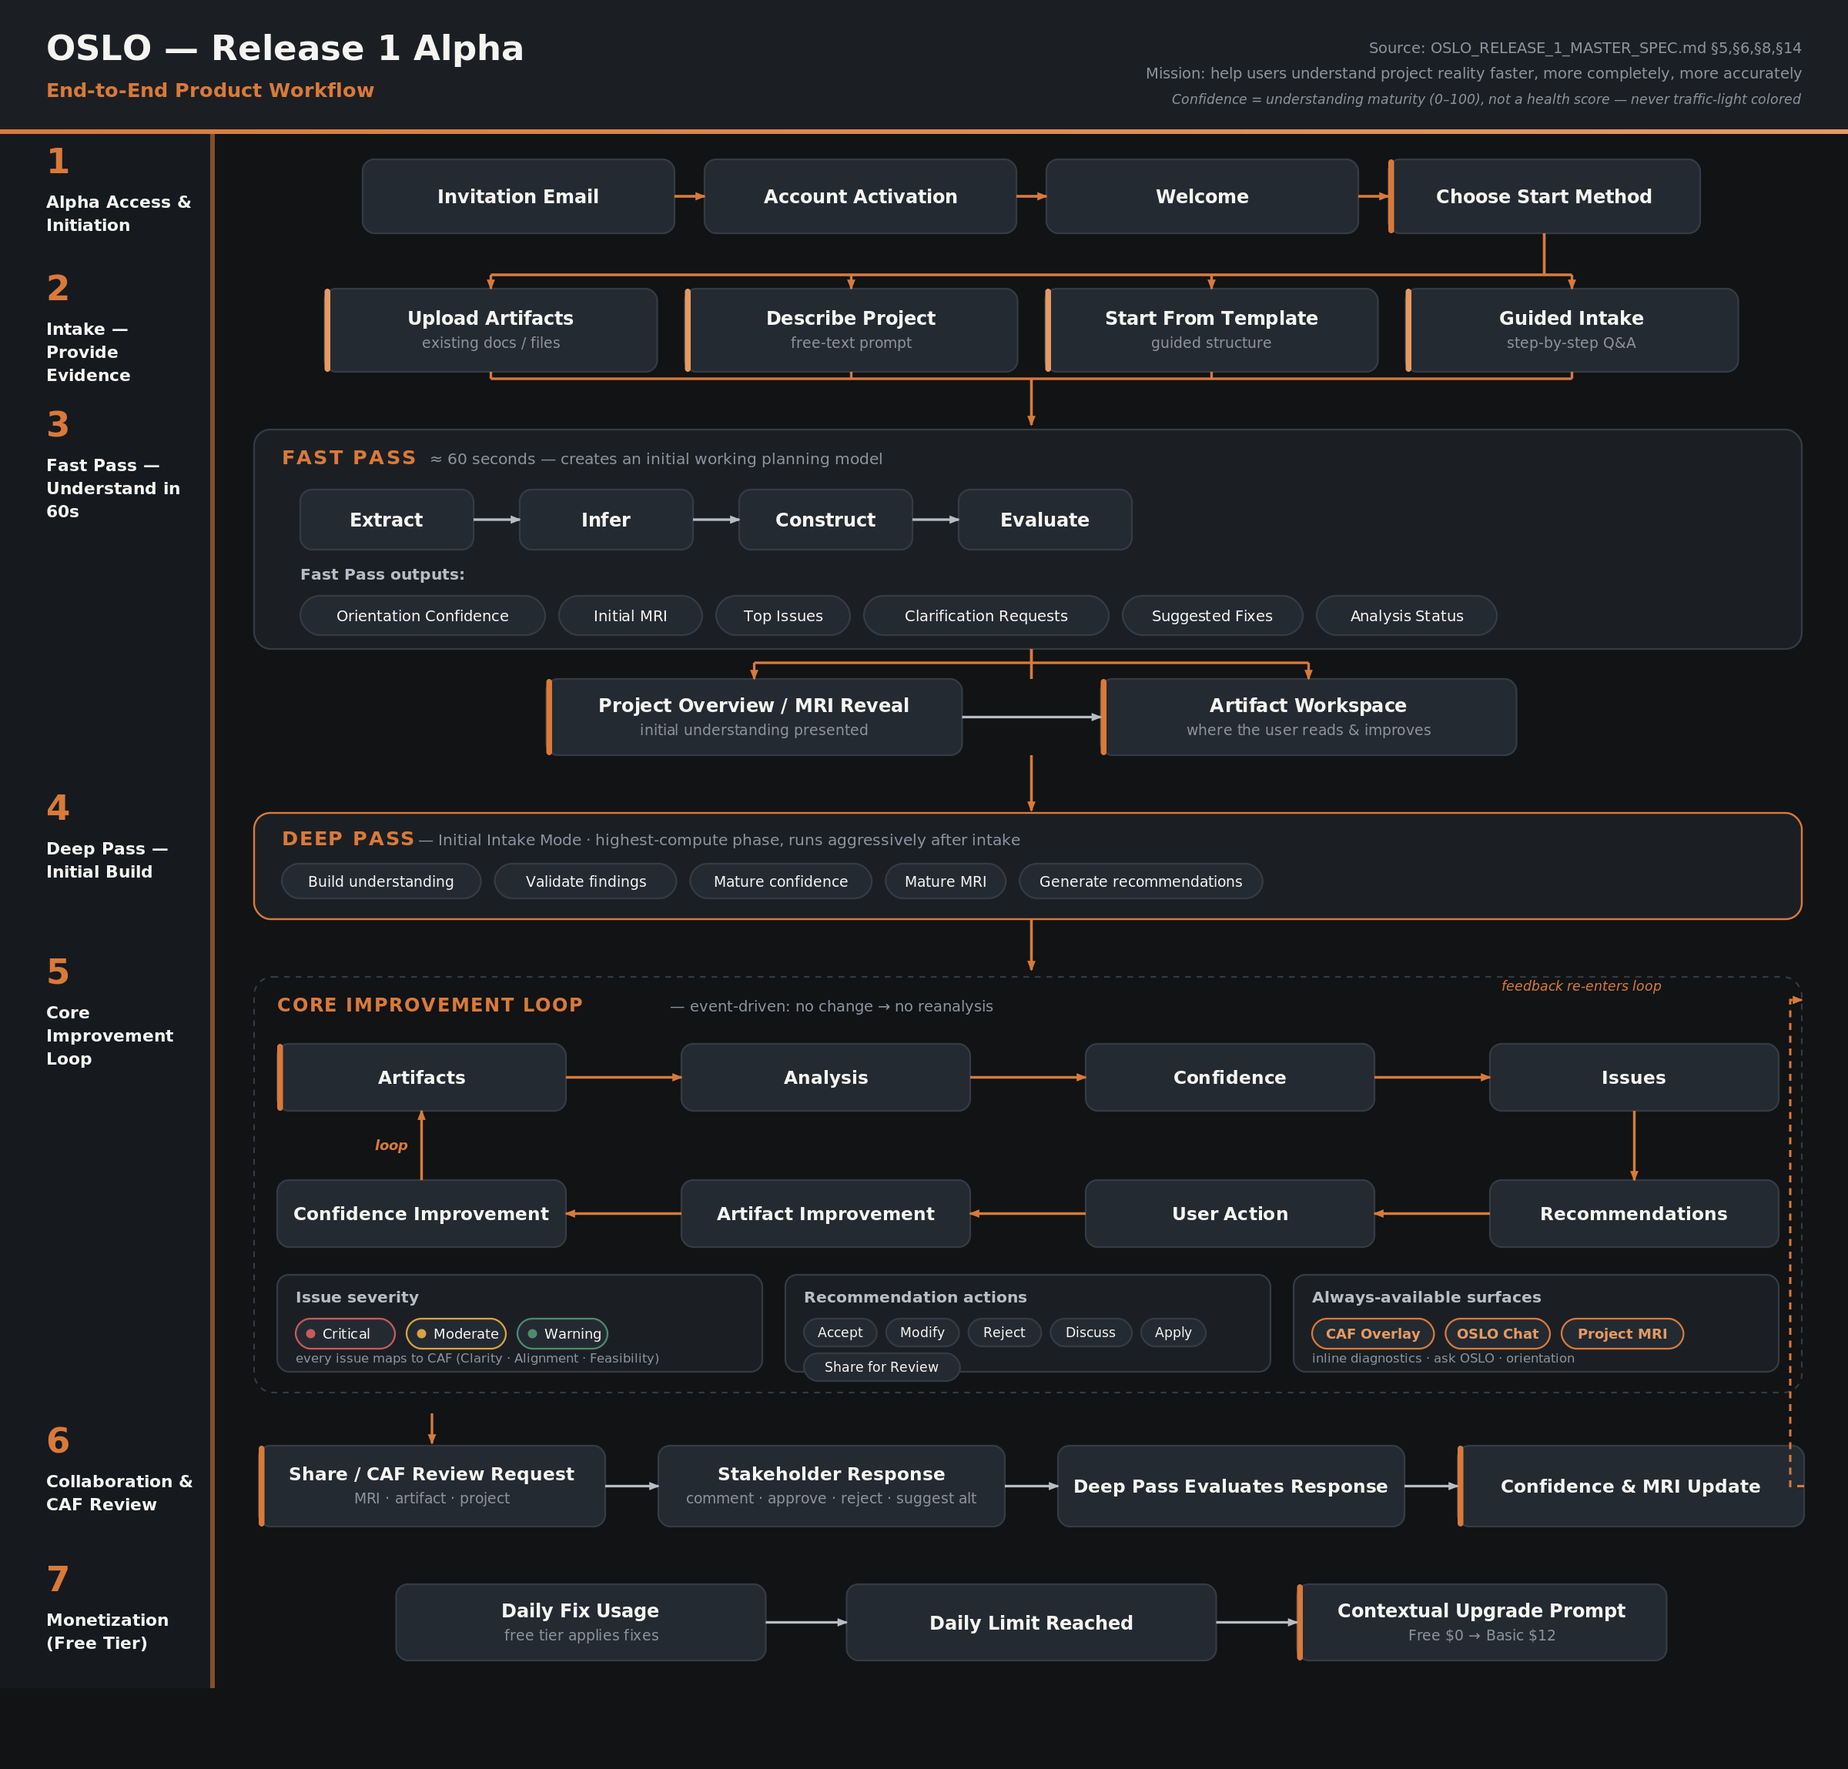
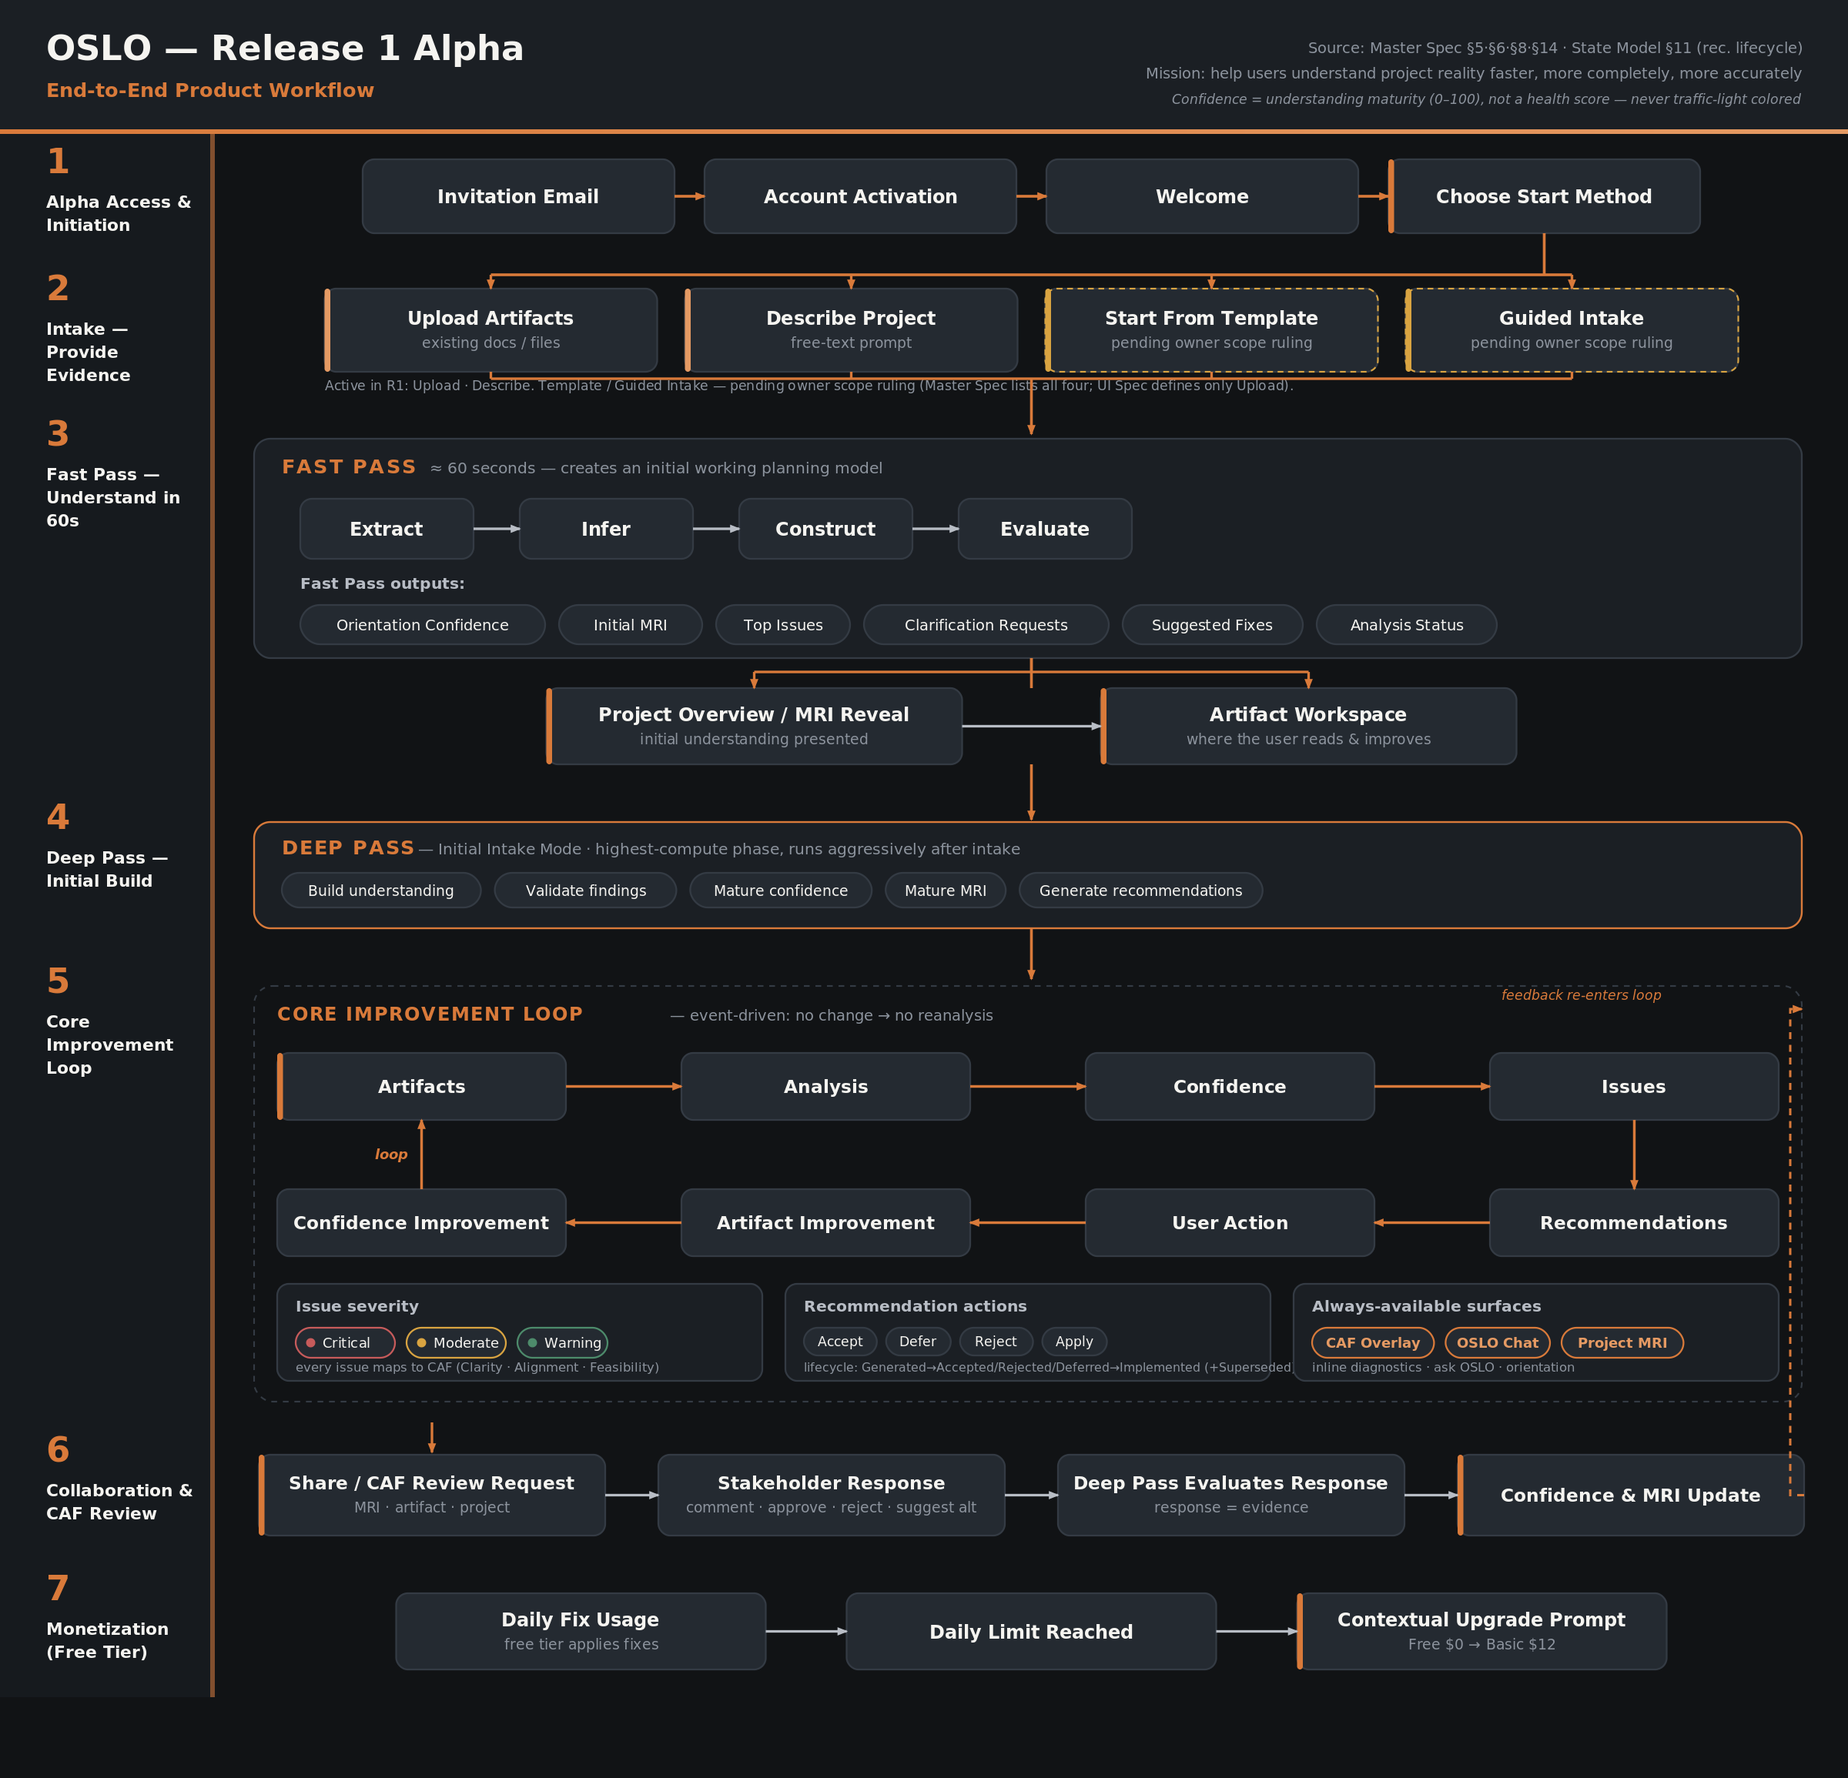
ENV-REV-001 owner-decision drafts + canon-corrected diagram
Non-canonical (90_research): Review 001, draft decision entry (ratify-with-conditions),
condition redline for dev lead. Regenerated end-to-end workflow diagram with canonical
recommendation lifecycle (Accept/Defer/Reject/Apply; State Model section 11), canonical
Project MRI / CAF Overlay names, Template/Guided Intake marked pending owner scope ruling.

Drafts only - owner ratifies (Authority Constraint). Not for main.

diff --git a/90_research/design_artifacts/ENV_REV_001_REVIEW_001.md b/90_research/design_artifacts/ENV_REV_001_REVIEW_001.md
@@ -1,0 +1,46 @@
+# Review 001 — ENV-REV-001 + Phase 1 Foundation Artifacts
+
+**Document Type:** Framework 001A Review (analysis & recommendation only — non-canonical) · **Status:** Recommend, with conditions — owner decision pending
+**Date:** 2026-06-10 · **Reviewer role:** AI contributor (analysis, consistency checking, conflict identification, recommendation generation — per `CLAUDE.md` Authority Constraint)
+**Subject:** `foundation-phase-1` branch — `REVISED_PHASE_1_FOUNDATION_STACK_PROPOSAL.md` (ENV-REV-001) + sibling design artifacts
+**Reference canon:** `30_engineering/environment/RUNTIME_ENVIRONMENT_CONSTRAINT_PROFILE_V1.md`, `20_handoff/interfaces/RELEASE_1_STATE_MODEL_SPECIFICATION_V1.md` (§11), `30_engineering/delivery/starter_kit/CLAUDE.md`, `00_owner/OPEN_TBD_REGISTER.md` (C1), `00_owner/canonical_definitions/canonical_definitions.md`, `10_product/scope/OSLO_RELEASE_1_MASTER_SPEC.md` (§8/§14), `10_product/experience/RELEASE_1_UI_SPECIFICATION_V1.md`
+
+> **Governance note.** This Review analyzes and recommends; it does not ratify, reject, supersede, or adopt. Only the repository owner may do so (Authority Constraint). It lives in `90_research/` (non-canonical; informs but does not bind, DL-033).
+
+---
+
+## Findings
+
+The branch adds five files, all under `90_research/design_artifacts/` — correct non-canonical zone (DL-033/DL-051). The diff is all-additive; no `00_owner` / `10_product` / `20_handoff` / `30_engineering` canon is touched. This honors "AI may not author or supersede canon."
+
+ENV-REV-001's "ratified profile" column is faithful to the owner canon — each row checks against `RUNTIME_ENVIRONMENT_CONSTRAINT_PROFILE_V1` (§2 DB matrix, §5 LLM, §6 hosting, §7 observability). The §9 invariants (append-only, canonical/derived separation, no `/authority` module, recompute-appends, secrets never committed, production human-only) all match `starter_kit/CLAUDE.md`. The data mapping correctly folds in the DL-043 reconciliation (Cognition History Record + User Acceptance Record as canonical append-only; Governance Decisions excluded as out-of-R1). It correctly routes through Framework 001 rather than self-ratifying and flags that the LLM provider/routing change needs human approval (accurate — `starter_kit/CLAUDE.md`).
+
+On the corrected diagram: its recommendation-action fix is correct. The authoritative State Model (`RELEASE_1_STATE_MODEL_SPECIFICATION_V1`, the designated "lifecycle authority") defines recommendation states as `Generated → Accepted → Rejected → Deferred → Implemented (+Superseded)`. "Deferred" is canonical (RS-R3); there is no "Modify" state. The prior diagram's "Modify" came from Master Spec §8's looser prose list. The event-driven Deep Pass note and the "response = evidence" framing are also accurate.
+
+## Concerns
+
+1. **Observability (highest).** The profile mandates OTel→Grafana plus service-health, queue/event-stream monitoring, two-axis derivation replay, governed-output events, and retention. LangSmith covers runs/traces/cost but not those. The proposal admits this and escalates "replace vs complement" — good — but as worded, replacing OTel→Grafana would under-satisfy CI gate-5. Ratify only as **complement**, not replace, unless Grafana is explicitly retired.
+2. **Assumed owner-pending value.** §6 cites "≥1-year audit" retention. The profile leaves audit retention "per compliance/governance," and `OPEN_TBD_REGISTER` C1 marks it TBD. That figure should read as a proposed default pending C1, not a requirement (anti-assumption).
+3. **LLM routing.** Profile §5 specifies a workload-routing matrix + quotas + model-consumption auditability. The proposal carries the abstraction and cost/token capture but does not explicitly preserve the routing matrix/quotas — confirm the `/services/llm_provider` adapter does.
+4. **Diagram drift introduced while fixing drift.** The corrected diagram renames "Project MRI"→"MRI" and "CAF Overlay"→"Overlay." "Project MRI" is canonically defined (`canonical_definitions.md`); the shortenings depart from canonical names — keep the canonical names.
+5. **Intake deferral presented as settled.** It marks "Start From Template" and "Guided Intake" as deferred. Defensible (the UI Spec defines neither; only Upload appears) — but Master Spec §14/§15 lists all four, and the scope authority (`OSLO_RELEASE_1_CANONICAL_SCOPE_V1`) does not explicitly defer them. This is a Master-Spec-vs-UI-Spec ambiguity that needs an owner scope ruling, not a baked-in "correction."
+6. **Unresolved canon conflict surfaced.** Master Spec §8 lists "Modify"/"Discuss" as recommendation actions; the State Model has neither and adds "Deferred." The diagram rightly follows the lifecycle authority, but the §8 conflict itself should be reconciled via a proposal, not left implicit.
+7. **Minor terminology (DL-053).** The proposal calls the profile "ratified" in places; its actual status is "Owner-Provided, pending DL-043 reconciliation."
+8. **Intra-PR consistency.** The sibling `ORIENT_PHASE` stage matrix still binds Mongo/Qdrant (current canon) while ENV-REV-001 removes them — fine now, but must be reconciled if ratified. Also verify its "±7" determinism band traces to a ratified calibration default vs an assumed value (the band is owner-pending per OPEN_TBD).
+
+## Dependencies
+
+- The five ratifications in proposal §12.
+- App-repo / starter-kit existing for the template edits (build-realization → app-repo relocation parked pending the app repo).
+- Owner-ratified updates to the Database Ownership Matrix and Logical Data Model v1.2 (remove Mongo/Qdrant).
+- NFR Acceptance Matrix / OPEN_TBD C1 (audit retention) and the determinism band.
+- A Master Spec §8 ↔ State Model reconciliation (for the diagram and the recommendation-action canon).
+- Owner scope ruling on Template / Guided Intake.
+
+## Recommendation
+
+ENV-REV-001 is well-governed and ready to route through Framework 001 as Proposal → Decision. If ratified, condition it on: observability = complement (not replace) until owner says otherwise; audit retention labeled proposed-pending (C1); the LLM adapter confirmed to preserve workload routing + quotas; and the "ratified → owner-provided" wording fixed. For the diagram: keep the recommendation-action and event-driven fixes, keep canonical "Project MRI"/"CAF Overlay" names, and label the intake deferral as "pending owner scope ruling."
+
+## Status
+
+**Recommend, with conditions.** Not ratified — owner decision required (Authority Constraint). AI analysis only.

diff --git a/90_research/design_artifacts/ENV_REV_001_DECISION_DRAFT.md b/90_research/design_artifacts/ENV_REV_001_DECISION_DRAFT.md
@@ -1,0 +1,42 @@
+# DRAFT Decision-Log Entry — ENV-REV-001 (for owner ratification)
+
+**Status:** 🟡 **DRAFT — non-canonical — awaiting owner ratification.** Not a decision-log entry until the owner authors/ratifies it into `00_owner/decisions/decision_log.md`.
+**Prepared by:** AI contributor (recommendation generation only — Authority Constraint). **Date:** 2026-06-10
+**Framework 001 stage:** Decision (Review = `ENV_REV_001_REVIEW_001.md`).
+
+> AI may not ratify, reject, supersede, or adopt canon. This is proposed text for the owner to edit and enact. Assign the next `DL-0xx` number on ratification.
+
+---
+
+## Proposed entry
+
+**DL-0xx — Revised Phase 1 Foundation environment binding (ENV-REV-001): ratify with conditions**
+
+**Decision.** Ratify the environment-binding revision in `REVISED_PHASE_1_FOUNDATION_STACK_PROPOSAL.md` (ENV-REV-001) as the Release 1 environment binding, amending `RUNTIME_ENVIRONMENT_CONSTRAINT_PROFILE_V1`, **subject to the four conditions below.** Platform architecture (DL-043) is unchanged; this is an implementation/environment binding only.
+
+**What is ratified (intent).**
+- Consolidate relational + auth + vector + object storage onto **Supabase** (Postgres + Auth/GoTrue + pgvector + Storage), local via the Supabase CLI.
+- **Remove MongoDB** (roles → Supabase Storage + Postgres `jsonb`) and **remove Qdrant** (→ pgvector).
+- Keep **Neo4j** (graph) and **Redis** (cache/sessions/streams).
+- **LangGraph** orchestration with a **Postgres checkpointer** for durable, resumable Fast/Deep-Pass runs.
+- **Pydantic AI + OSS adapter** behind the canon-mandated `/services/llm_provider` interface (OpenAI primary / Anthropic fallback, structured outputs, streaming).
+- **LangSmith** (self-hosted) added for run/trace/cost observability.
+- App code runs **natively** (not Dockerized); only backing services are Dockerized. (Already permitted by Profile §6 "containerized or platform-native.")
+- Hosting unchanged: Heroku + Vercel.
+
+**Conditions of ratification.**
+1. **Observability is additive, not a replacement.** LangSmith **complements** OpenTelemetry → Grafana for runs/traces/cost; it does **not** retire the mandated service-health, queue/event-stream monitoring, two-axis derivation replay, governed-output event emission, drift/trust signals, or retention. CI gate-5 (Observability) remains satisfied at the app level (governed-output events + `CognitionHistoryRecord` recording provider/model/version + LangSmith run linkage).
+2. **Audit retention remains owner-pending (OPEN_TBD C1).** Any "≥1-year audit" figure is a proposed default, not a ratified requirement, until reconciled against compliance.
+3. **LLM adapter must preserve Profile §5 controls** — workload-based routing matrix, usage quotas, and model-consumption auditability — and the provider/routing choice is approved here per `starter_kit/CLAUDE.md` (human approval required).
+4. **Terminology fix.** ENV-REV-001 to refer to the profile as "owner-provided (pending DL-043 reconciliation)," not "ratified."
+
+**Triggered canon changes (each via branch → PR → green doc-integrity gate → owner merge; never main).**
+- Amend `RUNTIME_ENVIRONMENT_CONSTRAINT_PROFILE_V1` (§2 DB matrix, §5 LLM, §7 observability) per the above.
+- Update the Database Ownership Matrix and `RELEASE_1_LOGICAL_DATA_MODEL_V1.2` physical-binding notes (remove Mongo/Qdrant → Supabase Storage / pgvector).
+- Update starter-kit templates (`docker-compose.dev.yml`, `.env`, `ci.yml` gate-5 wording) — **blocked until the app repo / starter kit exists** (build-realization → app-repo relocation parked).
+- Reconcile the sibling `ORIENT_PHASE` stage matrix (Mongo/Qdrant → revised bindings).
+- Changelog entry (Framework 001 final stage).
+
+**Not in scope of this decision.** Master Spec §8 ↔ State Model recommendation-action reconciliation; the Template / Guided Intake scope ruling — both tracked separately.
+
+**Traceability.** Review: `90_research/design_artifacts/ENV_REV_001_REVIEW_001.md`. Proposal: `90_research/design_artifacts/REVISED_PHASE_1_FOUNDATION_STACK_PROPOSAL.md`. Profile: `30_engineering/environment/RUNTIME_ENVIRONMENT_CONSTRAINT_PROFILE_V1.md`.

diff --git a/90_research/design_artifacts/ENV_REV_001_CONDITION_REDLINE.md b/90_research/design_artifacts/ENV_REV_001_CONDITION_REDLINE.md
@@ -1,0 +1,44 @@
+# ENV-REV-001 — Condition Redline (for the dev lead)
+
+**Status:** Non-canonical working note. Apply these edits to `REVISED_PHASE_1_FOUNDATION_STACK_PROPOSAL.md` on `foundation-phase-1` before the owner ratifies. **Date:** 2026-06-10
+
+These are the four conditions from Review 001 / the draft decision, translated into concrete edits. Nothing here is binding until the owner ratifies.
+
+---
+
+## 1. Observability — state "complement," not "replace"
+
+**Where:** §2 delta table (Observability row), §6, §8 Step 8, §12 item 3.
+
+- §2 Observability row → change action from "**Replace/Complement**" to "**Complement** (LangSmith additive; OTel→Grafana retained)."
+- §6 → make the resolution explicit, not a question: "LangSmith = runs/traces/cost layer **in addition to** OTel→Grafana. OTel→Grafana **remains** the source for service-health, queue/event-stream monitoring, and retention. CI gate-5 satisfied at app level: governed-output events + `CognitionHistoryRecord`(provider/model/version) + LangSmith run id."
+- §8 Step 8 → "LangSmith self-host **alongside** OTel→Grafana" (drop "instead of (or alongside)").
+- §12 item 3 → reframe from open question to "confirm complement (resolved: complement)."
+
+## 2. Audit retention — mark proposed-pending (OPEN_TBD C1)
+
+**Where:** §6, §9 DoD, anywhere "≥1-year audit" appears.
+
+- Change "≥90-day ops / ≥1-year audit" → "≥90-day ops (ratified); **audit retention = proposed default, pending OPEN_TBD C1 / NFR matrix — do not treat as a requirement**."
+
+## 3. LLM adapter — preserve Profile §5 controls
+
+**Where:** §1 table (Agent/LLM row), §3 LLM/agents bullet.
+
+- Add explicitly: the `/services/llm_provider` adapter implements **workload-based routing** (Complex Reasoning → premium; Structured Extraction/Classification/Summarization → cost-optimized; Agent Workflows → premium), **usage quotas**, and **model-consumption auditability** — per Profile §5. Confirm these are in the adapter contract, not just provider abstraction + selection.
+- Note: provider/routing choice carries human approval per app `CLAUDE.md` (record the approval reference).
+
+## 4. Terminology — "owner-provided," not "ratified"
+
+**Where:** §2 table header, §11 footer, the closing footnote.
+
+- Replace "the **ratified** Runtime Environment Constraint Profile" → "the **owner-provided** Runtime Environment Constraint Profile (pending DL-043 reconciliation)."
+- §2 column header "Ratified profile" → "Owner-provided profile."
+
+---
+
+## Also flag (not blocking ratification)
+
+- **`ORIENT_PHASE` stage matrix** still binds Mongo/Qdrant — fine until ratification; reconcile to the revised bindings once the profile is amended.
+- **`±7` determinism band** in `ORIENT_PHASE` — confirm it traces to a ratified/proposed-adopted calibration default; the band is owner-pending per OPEN_TBD. If not yet adopted, label it placeholder.
+- **Corrected diagram** — keep canonical names "Project MRI" / "CAF Overlay" (don't shorten); label Template / Guided Intake "pending owner scope ruling" rather than "deferred."
